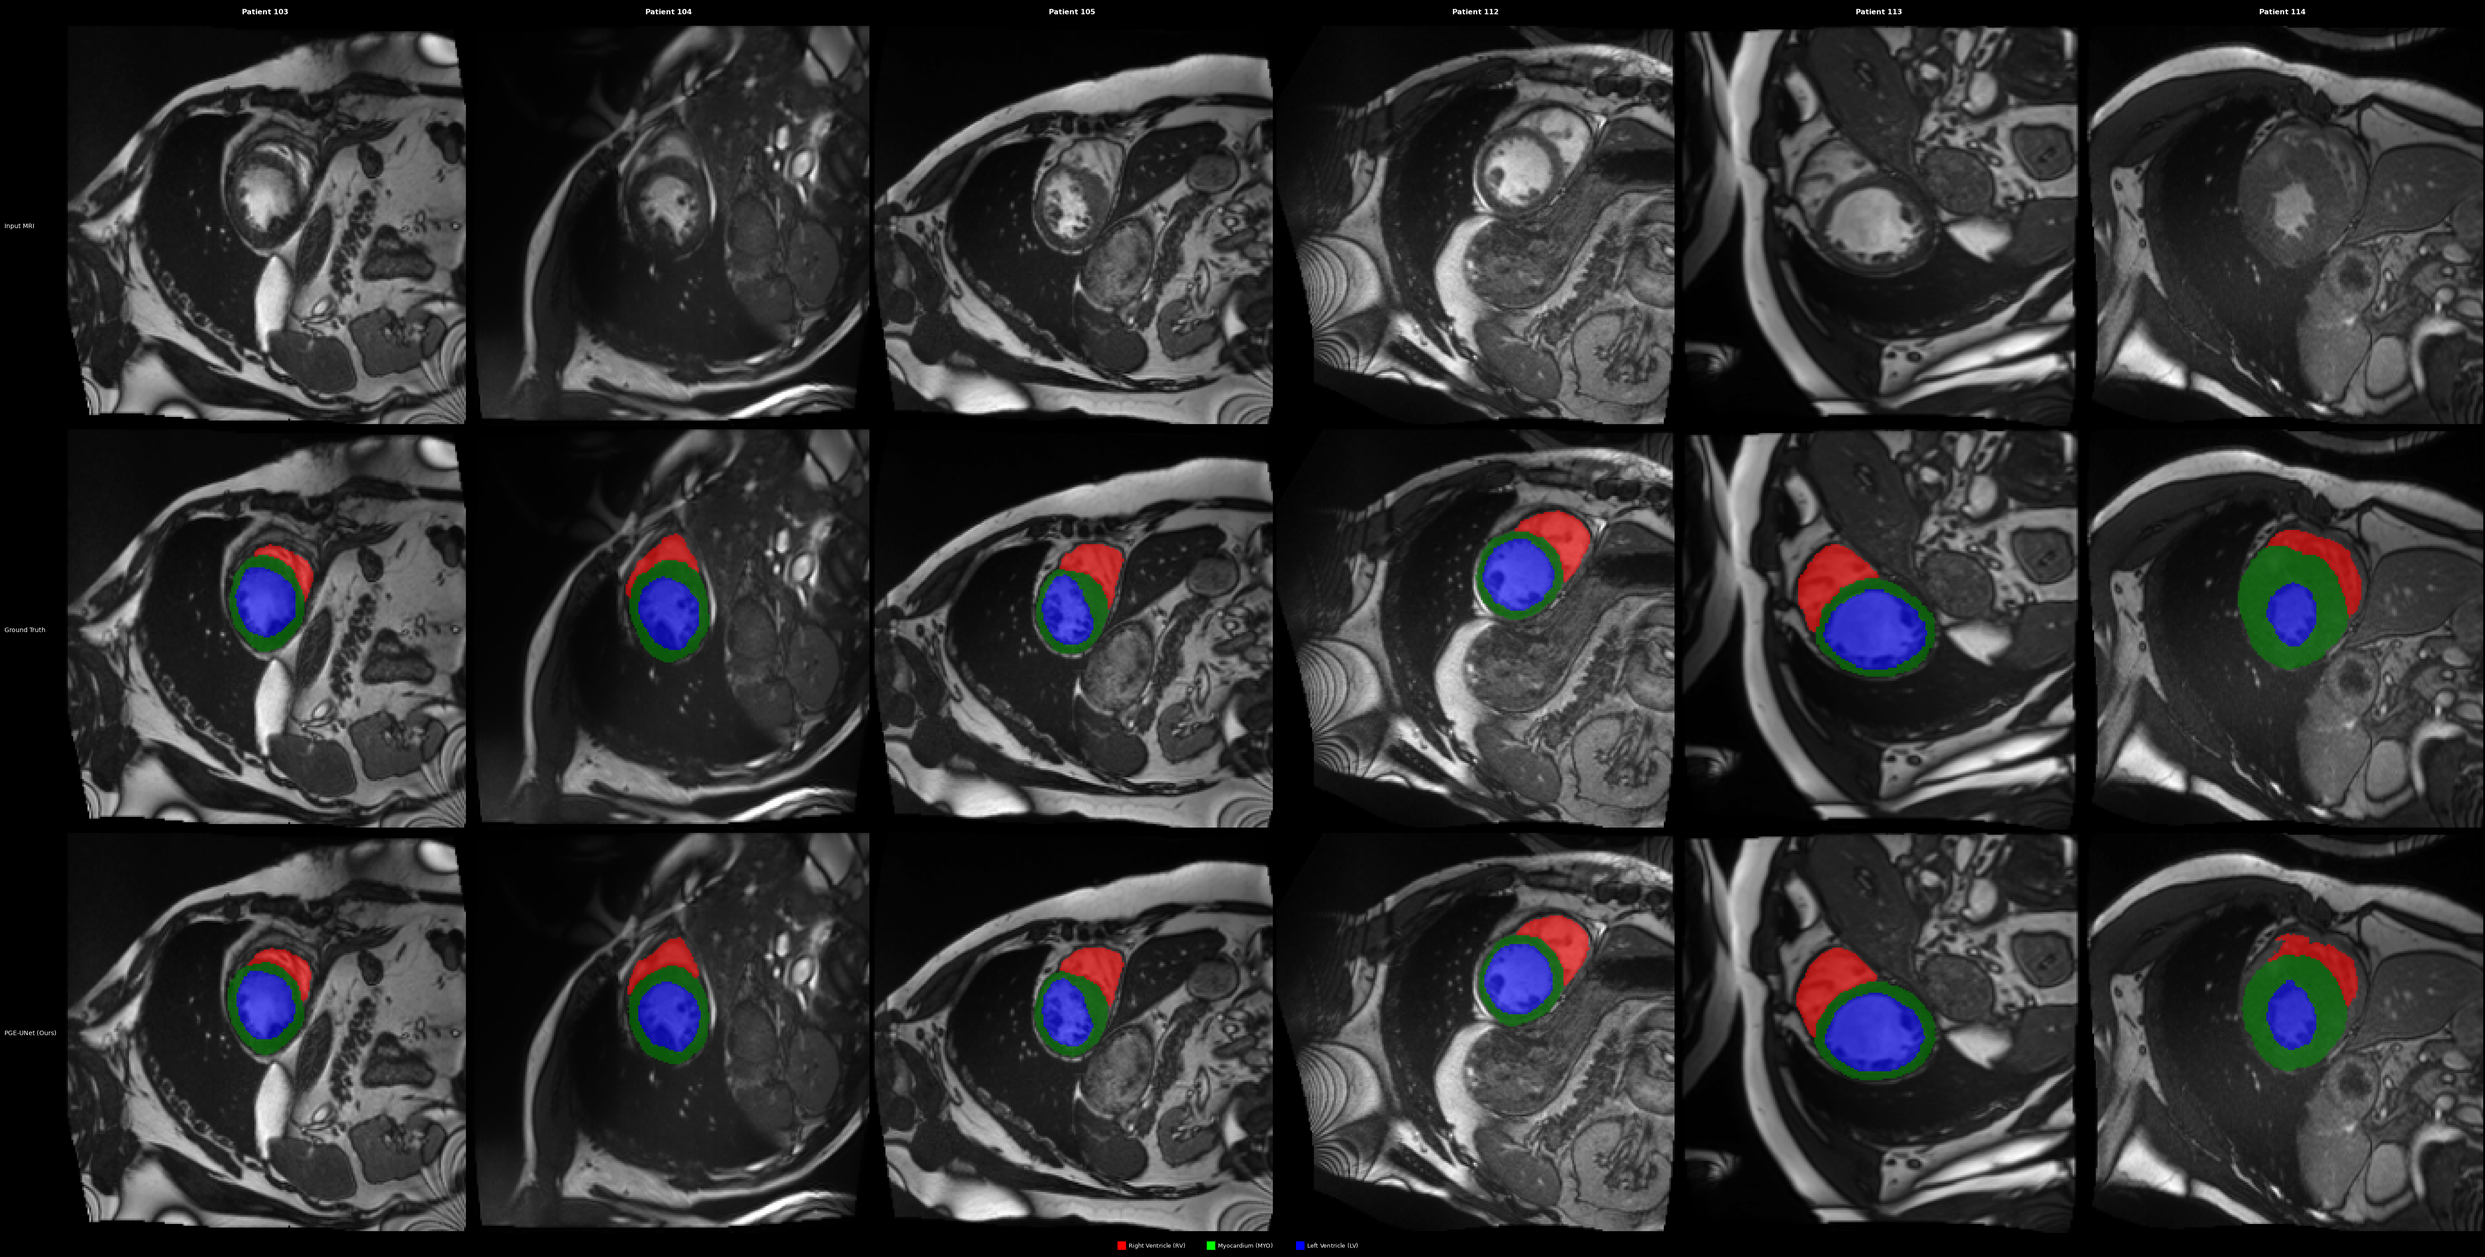
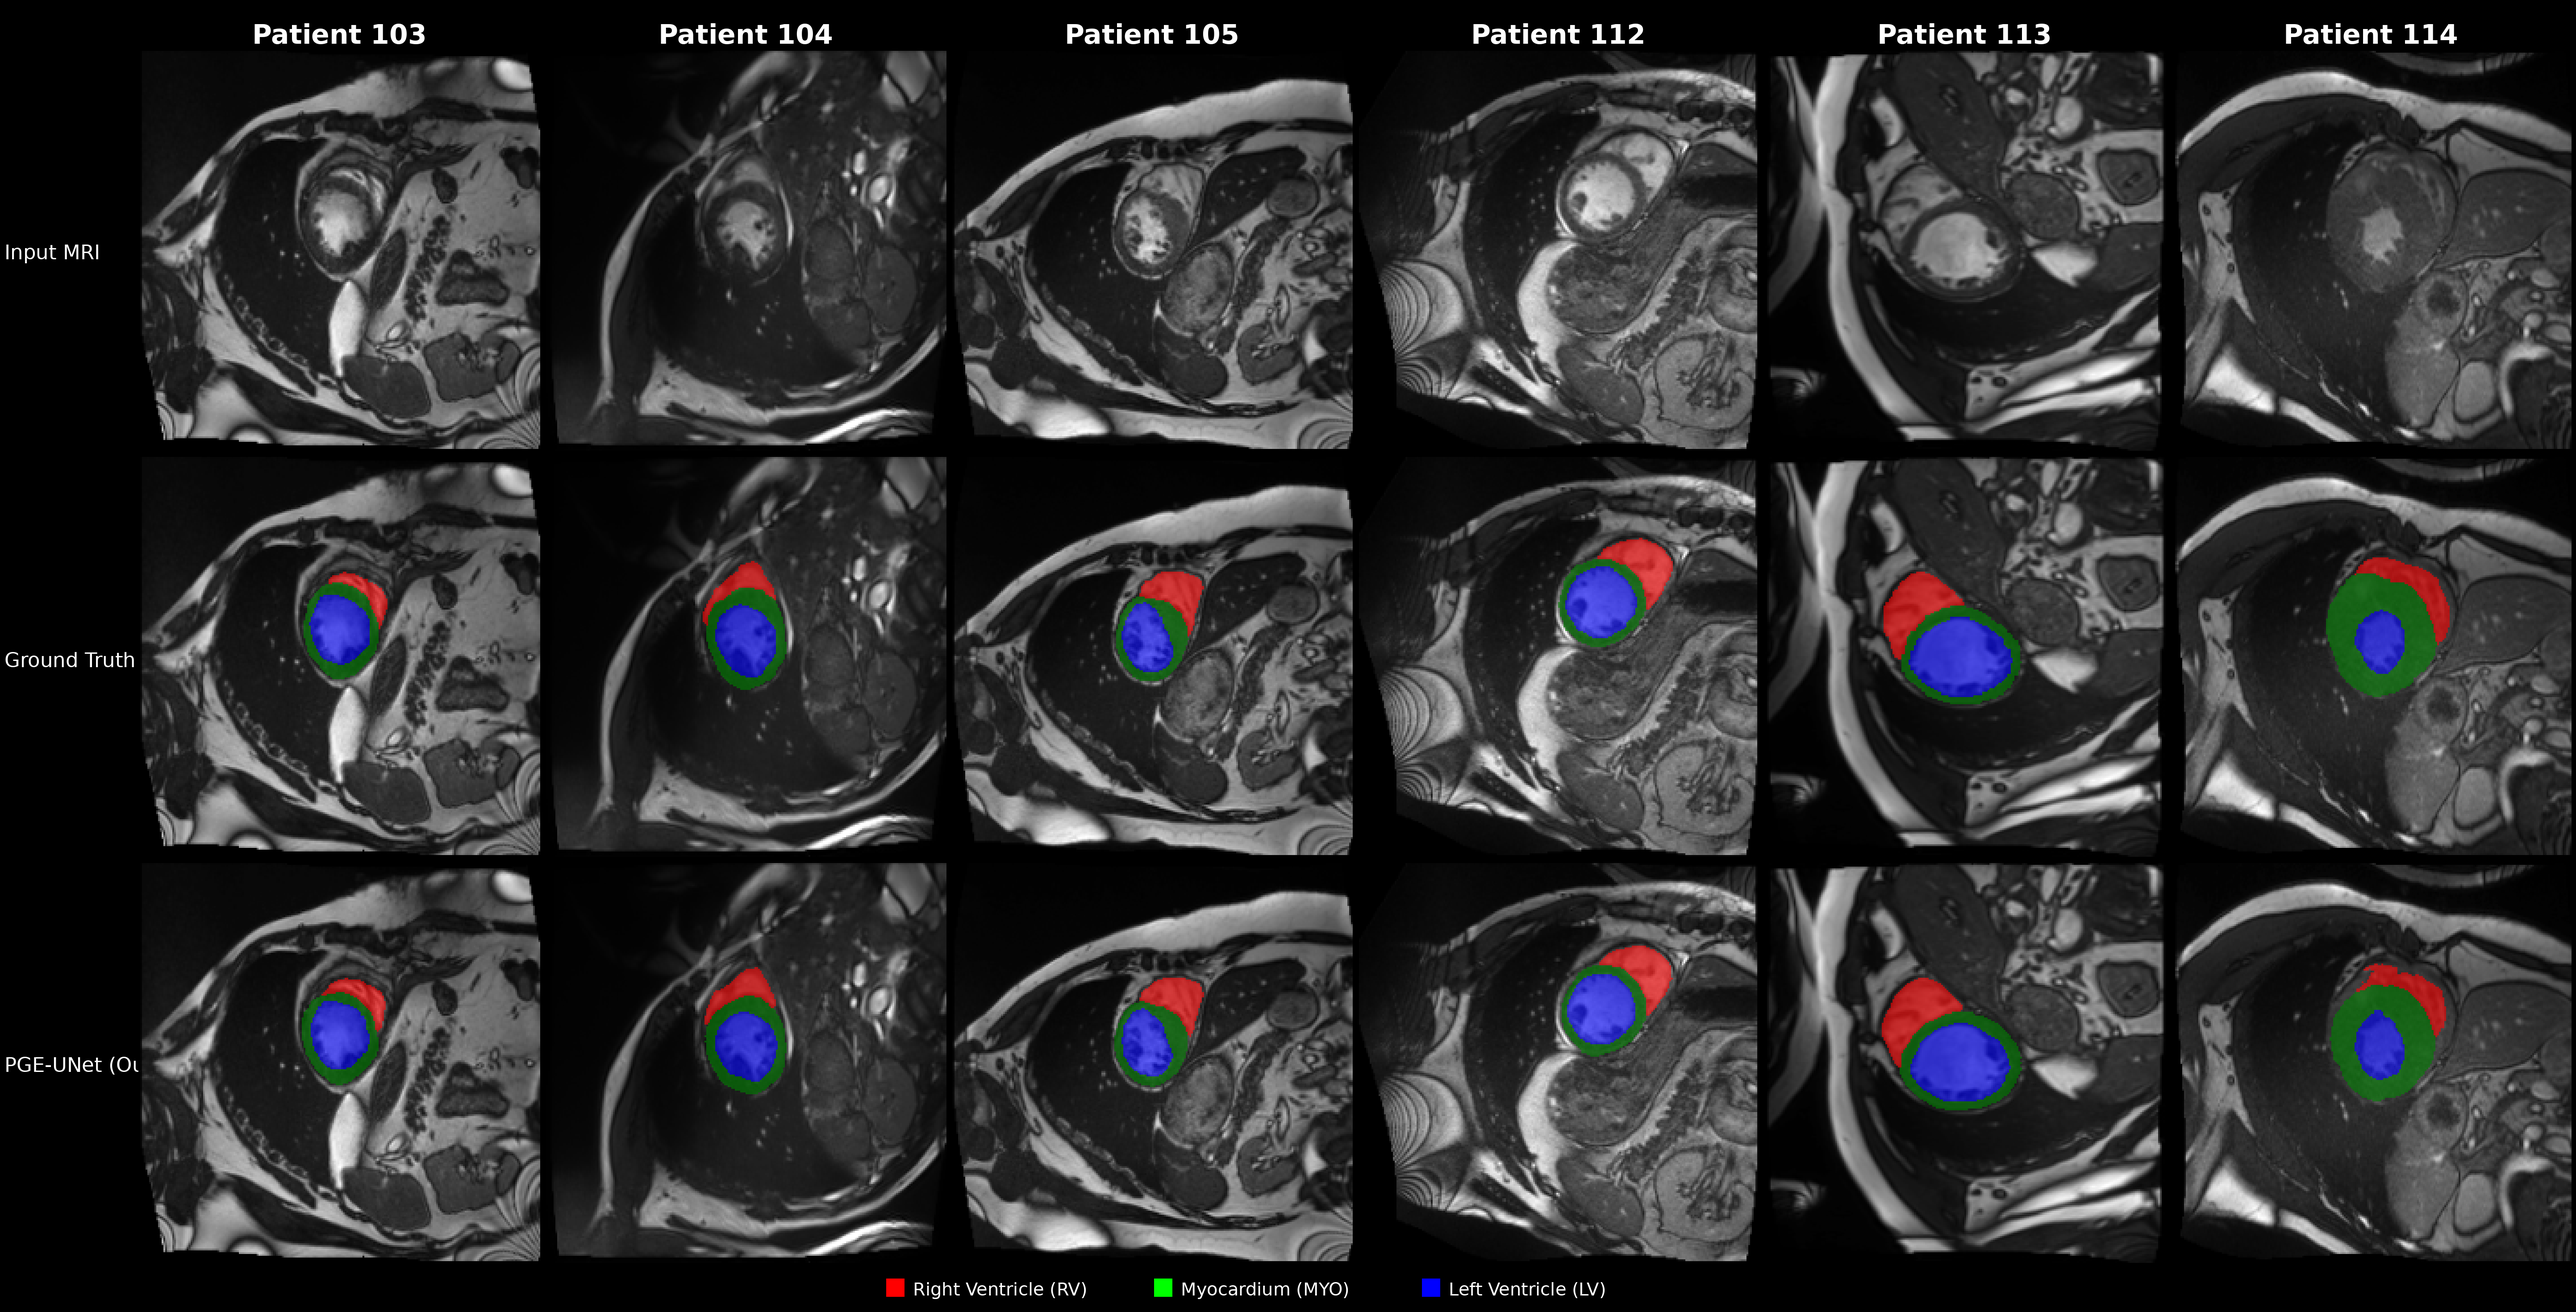
docs: Increase font size in patient comparison grid - Update comparison grid with significantly larger fonts for better readability - Header: 60pt, Row labels: 45pt, Legend: 40pt - Adjust layout dimensions to accommodate larger text

diff --git a/scripts/create_comparison_table.py b/scripts/create_comparison_table.py
@@ -1,11 +1,10 @@
 """
-Create a comparison grid image with patients as rows and 
-InputMRI, GroundTruth, PGE-UNet as columns.
-Output: Single combined image for README
+Create a comparison grid image with:
+- Columns = Patients (103, 104, 105, 112, 113, 114)
+- Rows = Image types (Input MRI, Ground Truth, PGE-UNet)
 """
 import os
 from PIL import Image, ImageDraw, ImageFont
-import numpy as np
 
 # Configuration
 BASE_DIR = os.path.dirname(os.path.dirname(os.path.abspath(__file__)))
@@ -13,106 +12,120 @@ VIS_OUTPUT_DIR = os.path.join(BASE_DIR, "visualization_outputs", "model_comparis
 VIS_OUTPUT_DIR_LOWER = os.path.join(BASE_DIR, "visualization_outputs", "model_comparison", "output")
 ASSETS_DIR = os.path.join(BASE_DIR, "assets")
 
-# Patients to include
+# Columns = Patients
 PATIENTS = ["patient103", "patient104", "patient105", "patient112", "patient113", "patient114"]
+PATIENT_LABELS = ["Patient 103", "Patient 104", "Patient 105", "Patient 112", "Patient 113", "Patient 114"]
 
-# Columns to display
-COLUMNS = ["InputMRI", "GroundTruth", "PIE-UNet"]
-COLUMN_LABELS = ["Input Image", "Ground Truth", "PGE-UNet (Ours)"]
+# Rows = Image types
+IMAGE_TYPES = ["InputMRI", "GroundTruth", "PIE-UNet"]
+ROW_LABELS = ["Input MRI", "Ground Truth", "PGE-UNet (Ours)"]
 
-# Slice to use for each patient
+# Slice to use
 SLICE_NAME = "ED_slice004"
 
-def get_image_path(patient, column):
-    """Get the image path for a specific patient and column."""
+def get_image_path(patient, image_type):
+    """Get the image path for a specific patient and image type."""
     if patient in ["patient103", "patient104", "patient105"]:
         base_path = VIS_OUTPUT_DIR
     else:
         base_path = VIS_OUTPUT_DIR_LOWER
     
-    img_path = os.path.join(base_path, patient, column, f"{patient}_{SLICE_NAME}.png")
+    img_path = os.path.join(base_path, patient, image_type, f"{patient}_{SLICE_NAME}.png")
     return img_path
 
 def create_comparison_grid():
-    """Create a grid comparison image like the reference."""
+    """Create a grid: Rows = image types, Columns = patients."""
     # Get dimensions from sample image
-    sample_path = get_image_path(PATIENTS[0], COLUMNS[0])
+    sample_path = get_image_path(PATIENTS[0], IMAGE_TYPES[0])
     sample_img = Image.open(sample_path)
     img_width, img_height = sample_img.size
     
     # Grid settings
-    header_height = 40
-    padding = 4
-    bg_color = (0, 0, 0)  # Black background like reference
+    header_height = 100     # Increased from 50
+    row_label_width = 300   # Increased from 140
+    padding = 10            # Increased padding
+    bg_color = (0, 0, 0)    # Black background
+    legend_height = 100     # Increased from 50
     
     # Calculate total dimensions
-    num_cols = len(COLUMNS)
-    num_rows = len(PATIENTS)
-    total_width = num_cols * img_width + (num_cols + 1) * padding
-    total_height = header_height + num_rows * img_height + (num_rows + 1) * padding + 40  # +40 for legend
+    num_cols = len(PATIENTS)
+    num_rows = len(IMAGE_TYPES)
+    total_width = row_label_width + num_cols * img_width + (num_cols + 1) * padding
+    total_height = header_height + num_rows * img_height + (num_rows + 1) * padding + legend_height
     
-    # Create canvas (black background)
+    # Create canvas
     canvas = Image.new('RGB', (total_width, total_height), color=bg_color)
     draw = ImageDraw.Draw(canvas)
     
-    # Try to load fonts
+    # Load fonts (Try to load much larger fonts)
     try:
-        font = ImageFont.truetype("/usr/share/fonts/truetype/dejavu/DejaVuSans-Bold.ttf", 14)
-        small_font = ImageFont.truetype("/usr/share/fonts/truetype/dejavu/DejaVuSans.ttf", 12)
+        # Increase font size ~3-4x
+        header_font = ImageFont.truetype("/usr/share/fonts/truetype/dejavu/DejaVuSans-Bold.ttf", 60)
+        row_font = ImageFont.truetype("/usr/share/fonts/truetype/dejavu/DejaVuSans.ttf", 45)
+        legend_font = ImageFont.truetype("/usr/share/fonts/truetype/dejavu/DejaVuSans.ttf", 40)
     except:
-        font = ImageFont.load_default()
-        small_font = font
+        print("Warning: Custom fonts not found, using default (might be small)")
+        header_font = ImageFont.load_default()
+        row_font = header_font
+        legend_font = header_font
     
-    # Draw column headers
-    for col_idx, col_label in enumerate(COLUMN_LABELS):
-        x = padding + col_idx * (img_width + padding) + img_width // 2
+    # Draw column headers (Patient names)
+    for col_idx, patient_label in enumerate(PATIENT_LABELS):
+        x = row_label_width + padding + col_idx * (img_width + padding) + img_width // 2
         y = header_height // 2
         
-        # Center text
-        bbox = draw.textbbox((0, 0), col_label, font=font)
+        bbox = draw.textbbox((0, 0), patient_label, font=header_font)
         text_width = bbox[2] - bbox[0]
-        draw.text((x - text_width // 2, y - 7), col_label, fill=(255, 255, 255), font=font)
+        draw.text((x - text_width // 2, y - 8), patient_label, fill=(255, 255, 255), font=header_font)
     
-    # Paste images
-    for row_idx, patient in enumerate(PATIENTS):
+    # Draw row labels and images
+    for row_idx, row_label in enumerate(ROW_LABELS):
         y_pos = header_height + padding + row_idx * (img_height + padding)
         
-        for col_idx, col_name in enumerate(COLUMNS):
-            x_pos = padding + col_idx * (img_width + padding)
+        # Draw row label (left side)
+        bbox = draw.textbbox((0, 0), row_label, font=row_font)
+        text_height = bbox[3] - bbox[1]
+        draw.text((10, y_pos + img_height // 2 - text_height // 2), row_label, fill=(255, 255, 255), font=row_font)
+        
+        # Paste images for each patient
+        for col_idx, patient in enumerate(PATIENTS):
+            x_pos = row_label_width + padding + col_idx * (img_width + padding)
             
-            img_path = get_image_path(patient, col_name)
+            img_path = get_image_path(patient, IMAGE_TYPES[row_idx])
             if os.path.exists(img_path):
                 img = Image.open(img_path)
                 canvas.paste(img, (x_pos, y_pos))
             else:
-                # Draw placeholder
                 draw.rectangle([x_pos, y_pos, x_pos + img_width, y_pos + img_height], 
                               outline=(100, 100, 100), width=1)
-                draw.text((x_pos + 10, y_pos + img_height // 2), "Not found", fill=(150, 150, 150))
-                print(f"Warning: Image not found: {img_path}")
+                print(f"Warning: Not found: {img_path}")
     
     # Draw legend at bottom
-    legend_y = total_height - 30
+    legend_y = total_height - legend_height + 25  # Adjusted Y position
     legend_items = [
-        ("Right Ventricle (RV)", (255, 0, 0)),    # Red
-        ("Myocardium (MYO)", (0, 255, 0)),        # Green
-        ("Left Ventricle (LV)", (0, 0, 255)),    # Blue
+        ("Right Ventricle (RV)", (255, 0, 0)),
+        ("Myocardium (MYO)", (0, 255, 0)),
+        ("Left Ventricle (LV)", (0, 0, 255)),
     ]
     
-    legend_start_x = total_width // 2 - 250
-    for i, (label, color) in enumerate(legend_items):
-        x = legend_start_x + i * 180
-        # Draw color box
-        draw.rectangle([x, legend_y, x + 15, legend_y + 15], fill=color, outline=color)
-        # Draw label
-        draw.text((x + 20, legend_y), label, fill=(255, 255, 255), font=small_font)
+    # Calculate legend total width to center it properly
+    legend_item_width = 600  # Estimate width per item including text
+    legend_start_x = total_width // 2 - (len(legend_items) * legend_item_width) // 2
     
-    # Save the result
+    for i, (label, color) in enumerate(legend_items):
+        x = legend_start_x + i * legend_item_width
+        # Draw larger color box
+        draw.rectangle([x, legend_y, x + 40, legend_y + 40], fill=color, outline=color)
+        # Draw label next to box
+        draw.text((x + 60, legend_y), label, fill=(255, 255, 255), font=legend_font)
+    
+    # Save result
     os.makedirs(ASSETS_DIR, exist_ok=True)
     output_path = os.path.join(ASSETS_DIR, "patient_comparison_grid.png")
     canvas.save(output_path, quality=95)
-    print(f"✅ Saved comparison grid to: {output_path}")
-    print(f"   Dimensions: {total_width} x {total_height}")
+    print(f"✅ Saved: {output_path}")
+    print(f"   Size: {total_width} x {total_height}")
+    print(f"   Layout: {num_rows} rows (image types) x {num_cols} columns (patients)")
     
     return output_path
 
